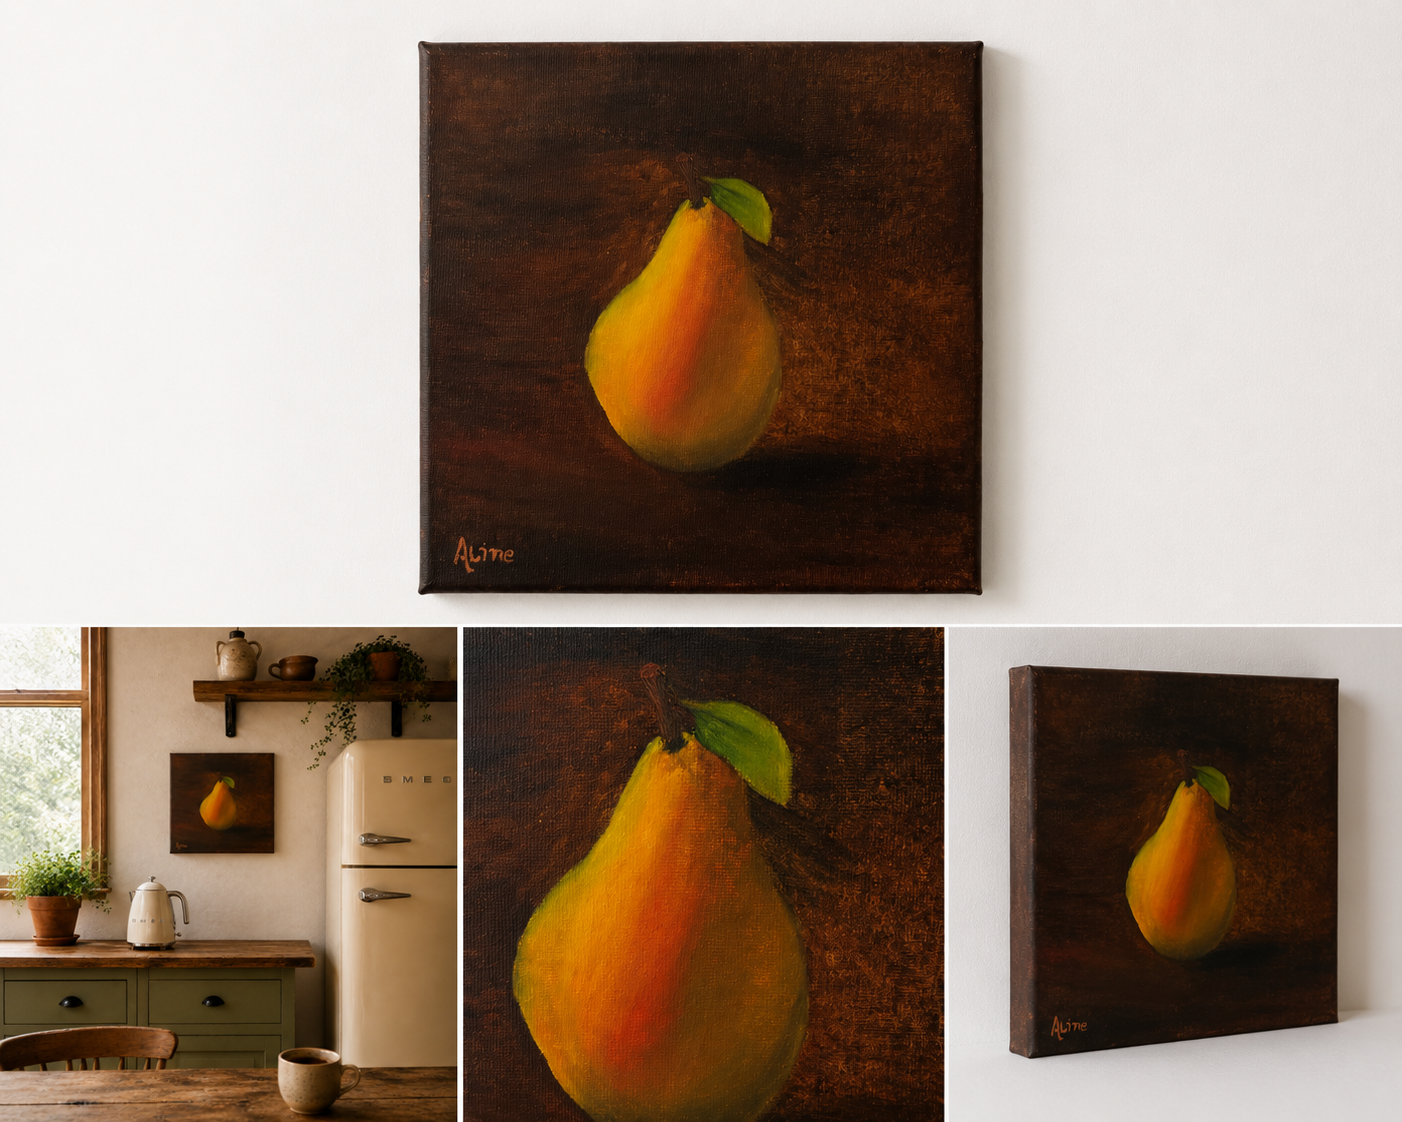
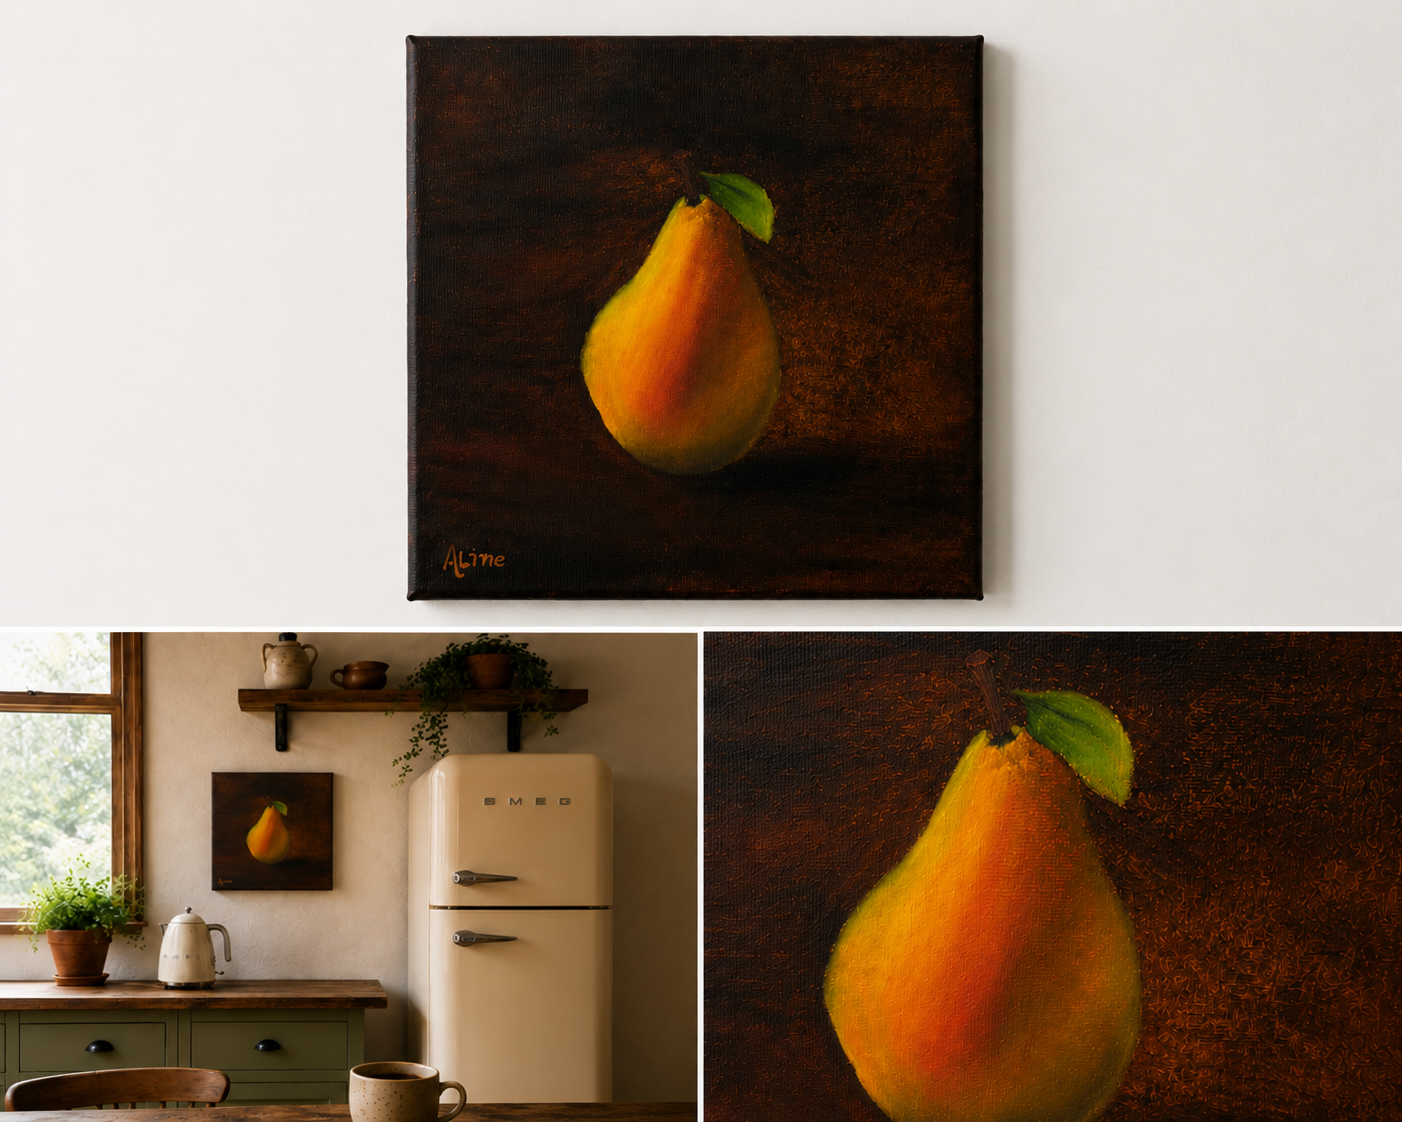
Update artwork gallery image handling

diff --git a/src/app/gallery/[slug]/page.tsx b/src/app/gallery/[slug]/page.tsx
@@ -44,6 +44,14 @@ export default async function ArtworkDetailPage({ params }: Props) {
   if (!artwork) notFound();
 
   const prefilledSubject = `Enquiry about "${artwork.title}"`;
+  const isQuinces = artwork.slug === 'quinces-and-blue-bottle';
+  const imageClassName = isQuinces ? 'object-contain' : 'object-cover';
+  const imageFrameClassName = isQuinces
+    ? 'relative aspect-[4/5] bg-[#EDE8E2] overflow-hidden max-h-[58vh]'
+    : 'relative aspect-[4/5] bg-[#EDE8E2] overflow-hidden';
+  const extraImageGridClassName = isQuinces
+    ? 'mt-4 grid grid-cols-2 gap-3 max-w-[82%] mx-auto'
+    : 'mt-6 grid grid-cols-2 gap-4';
 
   return (
     <div className="pt-28 pb-24 px-6 lg:px-12 max-w-7xl mx-auto">
@@ -57,25 +65,25 @@ export default async function ArtworkDetailPage({ params }: Props) {
 
       <div className="grid grid-cols-1 lg:grid-cols-2 gap-16 items-start">
         <div>
-          <div className="relative aspect-[4/5] bg-[#EDE8E2] overflow-hidden">
+          <div className={imageFrameClassName}>
             <Image
               src={artwork.image}
               alt={artwork.alt}
               fill
-              className="object-cover"
+              className={imageClassName}
               sizes="(max-width: 1024px) 100vw, 50vw"
               priority
             />
           </div>
           {artwork.extraImages && artwork.extraImages.length > 0 && (
-            <div className="mt-6 grid grid-cols-2 gap-4">
+            <div className={extraImageGridClassName}>
               {artwork.extraImages.map((src, idx) => (
-                <div key={idx} className="relative aspect-[4/5] bg-[#EDE8E2] overflow-hidden">
+                <div key={idx} className={imageFrameClassName}>
                   <Image
                     src={src}
                     alt={`${artwork.title} detail ${idx + 1}`}
                     fill
-                    className="object-cover"
+                    className={imageClassName}
                     sizes="(max-width: 1024px) 100vw, 25vw"
                     loading="lazy"
                   />

diff --git a/src/data/artworks.ts b/src/data/artworks.ts
@@ -148,7 +148,6 @@ export const artworks: Artwork[] = [
     image: '/artworks/apple.jpg',
     alt: 'Original Apple Oil Painting by Aline Gordiano',
     featured: true,
-    extraImages: ['/artworks/apple-gallery.jpg'],
   },
   {
     slug: 'pear-still-life',
@@ -163,7 +162,6 @@ export const artworks: Artwork[] = [
     image: '/artworks/pear.jpg',
     alt: 'Pear Still Life by Aline Gordiano',
     featured: true,
-    extraImages: ['/artworks/pear-gallery.jpg'],
   },
   {
     slug: 'quinces-and-blue-bottle',
